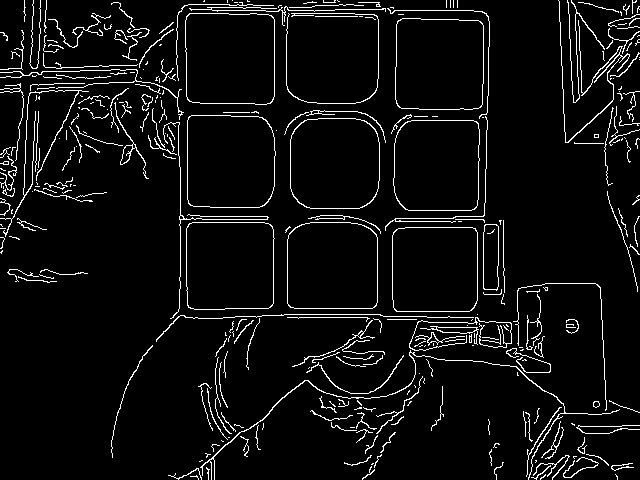
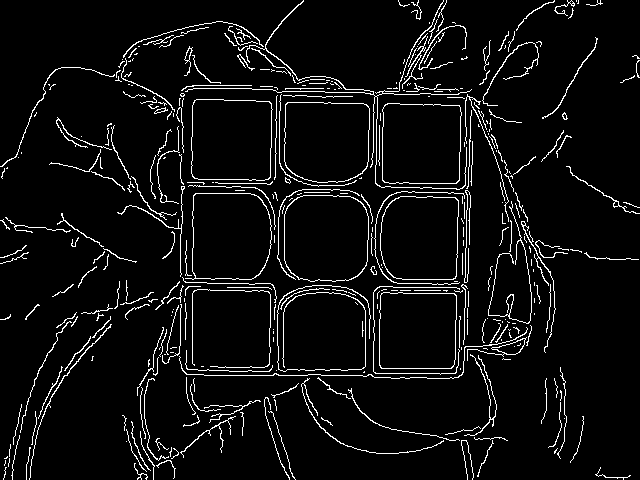
finding contours for 3x3x3 is very stable. So happy. Hope it works

diff --git a/src/GetContours.java b/src/GetContours.java
@@ -3,12 +3,17 @@ import java.util.List;
 
 import org.opencv.core.Core;
 import org.opencv.core.Mat;
+import org.opencv.core.MatOfInt;
 import org.opencv.core.MatOfPoint;
 import org.opencv.core.MatOfPoint2f;
+import org.opencv.core.MatOfRect;
+import org.opencv.core.Point;
+import org.opencv.core.Rect;
 import org.opencv.core.Scalar;
 import org.opencv.core.Size;
 import org.opencv.imgproc.Imgproc;
 
+import org.opencv.objdetect.*;
 public class GetContours {
 
 
@@ -19,13 +24,13 @@ static {
 	
 	public Mat captureFrame(Mat capturedFrame){
 		
-        Mat newFrame = new Mat();
+		Mat newFrame = new Mat();
         capturedFrame.copyTo(newFrame); 
         
         //Gray
         Mat gray = new Mat();
         Imgproc.cvtColor(capturedFrame, gray, Imgproc.COLOR_RGB2GRAY);
-
+        
         //Blur
         Mat blur = new Mat();
         Imgproc.blur(gray, blur, new Size(3,3));
@@ -34,7 +39,7 @@ static {
         Imgproc.Canny(blur, canny, 20, 40, 3, true);
 
         //Dilate image to increase size of lines
-        Mat kernel = Imgproc.getStructuringElement(1, new Size(3,3));
+        Mat kernel = Imgproc.getStructuringElement(2, new Size(7,7));
         Mat dilated = new Mat();
         Imgproc.dilate(canny,dilated, kernel);
 
@@ -42,45 +47,85 @@ static {
         List<MatOfPoint> contours = new ArrayList<>();
         List<MatOfPoint> squareContours = new ArrayList<>();
 
+        
+        
         //find contours
         Imgproc.findContours(dilated, contours, new Mat(), Imgproc.RETR_TREE, Imgproc.CHAIN_APPROX_NONE);
 
-
+        
         //Remove contours that aren't close to a square shape.
+        //Wondering if there is a way I can improve this?
         for(int i = 0; i < contours.size(); i++){
 
-            double area = Imgproc.contourArea( contours.get(i)); 
+            double area = Imgproc.contourArea(contours.get(i)); 
             MatOfPoint2f contour2f = new MatOfPoint2f(contours.get(i).toArray());
+            
             double perimeter = Imgproc.arcLength(contour2f, true);
-
             //Found squareness equation on wiki... 
             //https://en.wikipedia.org/wiki/Shape_factor_(image_analysis_and_microscopy)
             double squareness = 4 * Math.PI * area / Math.pow(perimeter, 2);
 
             //add contour to new List if it has a square shape.
-            if(squareness >= 0.7 && squareness <= 0.9 && area >= 4000){
+            if(squareness >= 0.7 && squareness <= 0.9 && area >= 2000 && squareContours.size() < 9){
                squareContours.add(contours.get(i));
             }
         }
         
-        //Mat for getting RGB of contours
-        List<Mat> recieveRGBs = new ArrayList<>();
-        
-        //Draw square contours on saved frame in beginning of method
+        //Put overlapping code over here....
         System.out.println("square contour size: " + squareContours.size());
         for(int i = 0; i < squareContours.size(); i++){
         	
         //	squareContours.get(i).copyTo(recieveRGBs.get(i));
         	
             Imgproc.drawContours(newFrame, squareContours, i, new Scalar(255, 255, 255), 3);
-        }     
-        
-        
-        
-        
-        
-	    return newFrame;
+        }   
+	 
+    	return newFrame;
 	}
 	
+/*	private void findRGBs(Mat currFrame,List<MatOfPoint> squareContours){
+		for(int i = 0; i < squareContours.size(); i++){
+			squareContours.get(i).convertTo(currFrame, 3);
+		}
+		
+	}
 	
+	*/
+	
+	
+	
+	/*List<Point> overlappingArea = new ArrayList<>();
+    MatOfPoint2f approxCurve = new MatOfPoint2f();
+
+    for(int n = 0; n < squareContours.size(); n++){
+		
+	    //Convert contours(n) from MatOfPoint to MatOfPoint2f
+        MatOfPoint2f contour2f = new MatOfPoint2f( squareContours.get(n).toArray());
+        //Processing on mMOP2f1 which is in type MatOfPoint2f
+        double approxDistance = Imgproc.arcLength(contour2f, true)*0.02;
+        Imgproc.approxPolyDP(contour2f, approxCurve, approxDistance, true);
+
+        //Convert back to MatOfPoint
+        MatOfPoint points = new MatOfPoint( approxCurve.toArray());
+
+        
+        // Get bounding rect of contour
+        Rect rect = Imgproc.boundingRect(points);
+        MatOfRect rects = new MatOfRect(rect);
+        MatOfInt matofint = new MatOfInt(n);
+        
+      
+        Point cooridnates = new Point(rect.x , rect.y);
+        
+        //System.out.println(rect.x + "," + rect.y);
+    	Objdetect.groupRectangles(rects, matofint, 9);
+        overlappingArea.add(cooridnates);
+        
+        for(int i = 0; i < overlappingArea.size(); i++){
+        	System.out.println("Difference: " + Math.abs(rect.x - overlappingArea.get(i).x));
+        	if (Math.abs(rect.x - overlappingArea.get(i).x) >= 5 && Math.abs(rect.y - overlappingArea.get(i).y) >= 5) {
+        		Imgproc.rectangle(newFrame, cooridnates, new Point(rect.x+rect.width,rect.y+rect.height), new Scalar(255,255,255), 3);
+        	}
+        }
+	}  */
 }

diff --git a/src/LearnContours.java b/src/LearnContours.java
@@ -27,7 +27,7 @@ public class LearnContours {
         //Gray
         Mat gray = new Mat();
         Imgproc.cvtColor(capturedFrame, gray, Imgproc.COLOR_BGR2GRAY);
-
+        
         //Blur
         Mat blur = new Mat();
         Imgproc.blur(gray, blur, new Size(3,3));
@@ -39,17 +39,20 @@ public class LearnContours {
         Imgcodecs.imwrite("test.png", canny);
 
         //Dilate image to increase size of lines
-        Mat kernel = Imgproc.getStructuringElement(1, new Size(3,3));
+        Mat kernel = Imgproc.getStructuringElement(2, new Size(7,7));
         Mat dilated = new Mat();
         Imgproc.dilate(canny,dilated, kernel);
 
+        Imshow m8 = new Imshow("");
+        m8.show(dilated);
 
         List<MatOfPoint> contours = new ArrayList<>();
         List<MatOfPoint> squareContours = new ArrayList<>();
-
+        Mat hierarchy = new Mat();
         //find contours
-        Imgproc.findContours(dilated, contours, new Mat(), Imgproc.RETR_TREE, Imgproc.CHAIN_APPROX_NONE);
-
+        Imgproc.findContours(dilated, contours, hierarchy, Imgproc.RETR_TREE, Imgproc.CHAIN_APPROX_NONE);
+        
+        
         //convert image 
         Imgproc.cvtColor(capturedFrame, capturedFrame, Imgproc.COLOR_BGR2RGB);
 
@@ -72,6 +75,7 @@ public class LearnContours {
             double area = Imgproc.contourArea( contours.get(i)); 
             MatOfPoint2f contour2f = new MatOfPoint2f(contours.get(i).toArray());
             double perimeter = Imgproc.arcLength(contour2f, true);
+            
 
             //Found squareness equation on wiki... 
             // https://en.wikipedia.org/wiki/Shape_factor_(image_analysis_and_microscopy)
@@ -80,7 +84,8 @@ public class LearnContours {
            // System.out.println("Squareness: " + squareness);
 
 
-            if(squareness >= 0.7 && squareness <= 0.9 && area >= 5000){
+            if(squareness >= 0.7 && squareness <= 0.9 && area >= 2000 && squareContours.size() < 9){
+            	
                squareContours.add(contours.get(i));
             }
         }
@@ -94,33 +99,68 @@ public class LearnContours {
         
 	
 	
- 	
-	
+ 	/*
+	List<Point> overlappingArea = new ArrayList<>();
 	    	
     MatOfPoint2f approxCurve = new MatOfPoint2f();
+    int counter = 0;
 	for(int n = 0; n < squareContours.size(); n++){
 
+	
+		
 	    //Convert contours(i) from MatOfPoint to MatOfPoint2f
         MatOfPoint2f contour2f = new MatOfPoint2f( squareContours.get(n).toArray() );
-        //Processing on mMOP2f1 which is in type MatOfPoint2f
+        //Epsilon (size of rectangle)
         double approxDistance = Imgproc.arcLength(contour2f, true)*0.02;
         Imgproc.approxPolyDP(contour2f, approxCurve, approxDistance, true);
 
         //Convert back to MatOfPoint
-        MatOfPoint points = new MatOfPoint( approxCurve.toArray() );
+        MatOfPoint points = new MatOfPoint( approxCurve.toArray());
 
         // Get bounding rect of contour
         Rect rect = Imgproc.boundingRect(points);
+        
+        Point cooridnates = new Point(rect.x , rect.y);
+        
+       // System.out.println(rect.x + "," + rect.y);
+       
+        
+        overlappingArea.add(cooridnates);
+        System.out.println("size " + overlappingArea.size());
+        for(int i = 0; i < overlappingArea.size(); i++){
+        	//System.out.println("cur: " + rect.x +"," + rect.y);
+        	//System.out.println("src: " + overlappingArea.get(i).x + "," + overlappingArea.get(i).y);
+        	if (Math.abs(rect.x - overlappingArea.get(i).x) < 5 && Math.abs(rect.y - overlappingArea.get(i).y) < 5) {
+        		counter++;
+        		Imgproc.rectangle(newFrame, cooridnates, new Point(rect.x+rect.width,rect.y+rect.height), new Scalar(255,255,255), 3);
+        	}
+        }
+        
+        overlappingArea.add(new Point(rect.x + rect.width, rect.y+rect.height));
+        
+        if(rect.x){
+        	System.out.println("INSIDE");
+        }
+        
+       
+        
+        
+     //  Point rectangle = new Point(rect.x, rect.y);
+        
+        overlappingArea.add(newCoordinatesXY);
+        if (overlappingArea.contains(Point (rect.x, rect.y)) {
+			
+		}
 
          // draw enclosing rectangle (all same color, but you could use variable i to make them unique)
-        Imgproc.rectangle(newFrame, new Point(rect.x,rect.y), new Point(rect.x+rect.width,rect.y+rect.height),new Scalar (255, 0, 0, 255), 3); 
+        
+       // Imgproc.rectangle(newFrame, new Point(rect.x,rect.y), new Point(rect.x+rect.width,rect.y+rect.height),new Scalar (255, 0, 0, 255), 3); 
 
-        System.out.println("Num of points: " + n);
 		}
-	
+		System.out.println(counter);*/
 	
 	showImg.show(newFrame);
-    Imgcodecs.imwrite("remove.png", newFrame);
+    Imgcodecs.imwrite("removed.png", newFrame);
 
 
 	}    	
